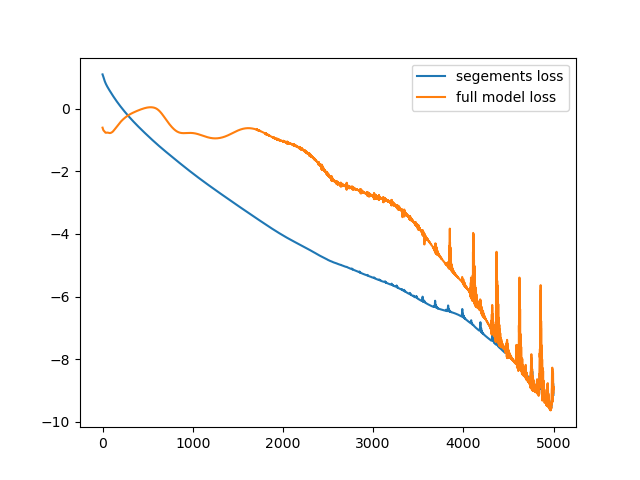
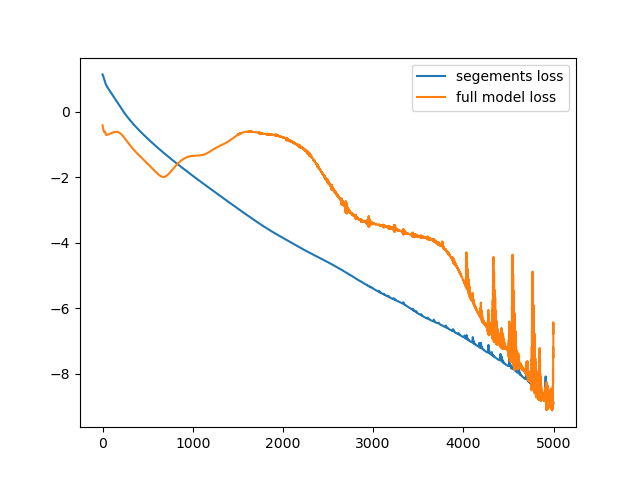
next step: measure the time difference and train without middle state

diff --git a/multi_train.py b/multi_train.py
@@ -12,21 +12,22 @@ def unit_nn(input_shape, output_shape, units, layers_per_segment):
     model = tf.keras.Model(inputs=input_layer, outputs=output_layer)
     return model
 
-def multi_shot(x, y, layers_per_segment, units, epochs, learning_rate):
+def multi_shot(x, y, layers_per_segment, number_of_segments, units, epochs, learning_rate):
     # Randomly initialize trainable middle states
-    middle_state0 = tf.Variable(tf.random.normal([x.shape[0], units], dtype=tf.float32), trainable=True)
-    middle_state1 = tf.Variable(tf.random.normal([x.shape[0], units], dtype=tf.float32), trainable=True)
-
+    middle_state = [tf.Variable(tf.random.normal([x.shape[0], units], dtype=tf.float32), trainable=True) for _ in range(number_of_segments)]
+    all_states = [x] + middle_state + [y]
+    segments = []
     # Instantiate each segment
-    segment1 = unit_nn(x.shape[1:], middle_state0.shape[1], units=units, layers_per_segment=layers_per_segment) # shape x = (1, ), y = 16
-    segment2 = unit_nn(middle_state0.shape[1:], middle_state1.shape[1], units=units, layers_per_segment=layers_per_segment) # shape x = (16, ), y = 16
-    segment3 = unit_nn(middle_state1.shape[1:], y.shape[1], units=units, layers_per_segment=layers_per_segment) # shape x = (16, ), y = 1
+    for i in range(0, len(all_states) - 1):
+        segment = unit_nn(all_states[i].shape[1:], all_states[i + 1].shape[1], units=units, layers_per_segment=layers_per_segment)
+        segments.append(segment)
 
     # Combine segments into a single unified model
     input_layer = tf.keras.layers.Input(shape=x.shape[1:])
-    intermediate1 = segment1(input_layer)
-    intermediate2 = segment2(intermediate1)
-    output_layer = segment3(intermediate2)
+    middle_segment = input_layer
+    for element in segments:
+        middle_segment = element(middle_segment)
+    output_layer = middle_segment
     full_model = tf.keras.Model(inputs=input_layer, outputs=output_layer)
 
     optimizer = tf.keras.optimizers.Adam(learning_rate)
@@ -35,31 +36,25 @@ def multi_shot(x, y, layers_per_segment, units, epochs, learning_rate):
     loss_record = []
 
     for epoch in range(epochs):
-        # Train segment 1
-        with tf.GradientTape() as tape1:
-            intermediate1_output = segment1(x, training=True)
-            loss1 = mse_loss(intermediate1_output, middle_state0)
-        gradients1 = tape1.gradient(loss1, segment1.trainable_variables + [middle_state0])
-        optimizer.apply_gradients(zip(gradients1, segment1.trainable_variables + [middle_state0]))
+        segments_loss = 0
+        for i in range(0, len(segments)):
+            with tf.GradientTape() as tape:
+                intermediate_output = segments[i](all_states[i], training=True)
+                loss = mse_loss(intermediate_output, all_states[i + 1])
 
-        # Train segment 2
-        with tf.GradientTape() as tape2:
-            intermediate2_output = segment2(middle_state0, training=True)
-            loss2 = mse_loss(intermediate2_output, middle_state1)
-        gradients2 = tape2.gradient(loss2, segment2.trainable_variables + [middle_state1])
-        optimizer.apply_gradients(zip(gradients2, segment2.trainable_variables + [middle_state1]))
+            # Note: the place of middle_state in the trainable variables list is important
+            if i == len(segments) - 1:
+                gradients = tape.gradient(loss, segments[i].trainable_variables)
+                optimizer.apply_gradients(zip(gradients, segments[i].trainable_variables))
+            else:
+                gradients = tape.gradient(loss, segments[i].trainable_variables + [middle_state[i]])
+                optimizer.apply_gradients(zip(gradients, segments[i].trainable_variables + [middle_state[i]]))
+            segments_loss += loss
+            del tape
 
-        # Train segment 3
-        with tf.GradientTape() as tape3:
-            predictions = segment3(middle_state1, training=True)
-            loss3 = mse_loss(predictions, y)
-        gradients3 = tape3.gradient(loss3, segment3.trainable_variables)
-        optimizer.apply_gradients(zip(gradients3, segment3.trainable_variables))
-
-        segements_loss = loss1 + loss2 + loss3
         full_loss = mse_loss(full_model(x), y)
-        loss_record.append([segements_loss, full_loss])
-        print(f"Epoch {epoch + 1}/{epochs}, Loss of segements: {segements_loss.numpy()}, Full model loss: {full_loss.numpy()}")
+        loss_record.append([segments_loss, full_loss])
+        print(f"Epoch {epoch + 1}/{epochs}, Loss of segments: {segments_loss.numpy()}, Full model loss: {full_loss.numpy()}")
 
     return full_model, loss_record
 
@@ -82,8 +77,10 @@ def main():
     y = np.sin(x).reshape(-1, 1).astype(np.float32)  
 
     model, loss_record = multi_shot(
-        x, y,
+        x = x, 
+        y = y,
         layers_per_segment=2,
+        number_of_segments=2,
         units=16,
         epochs=5000,
         learning_rate=0.001
